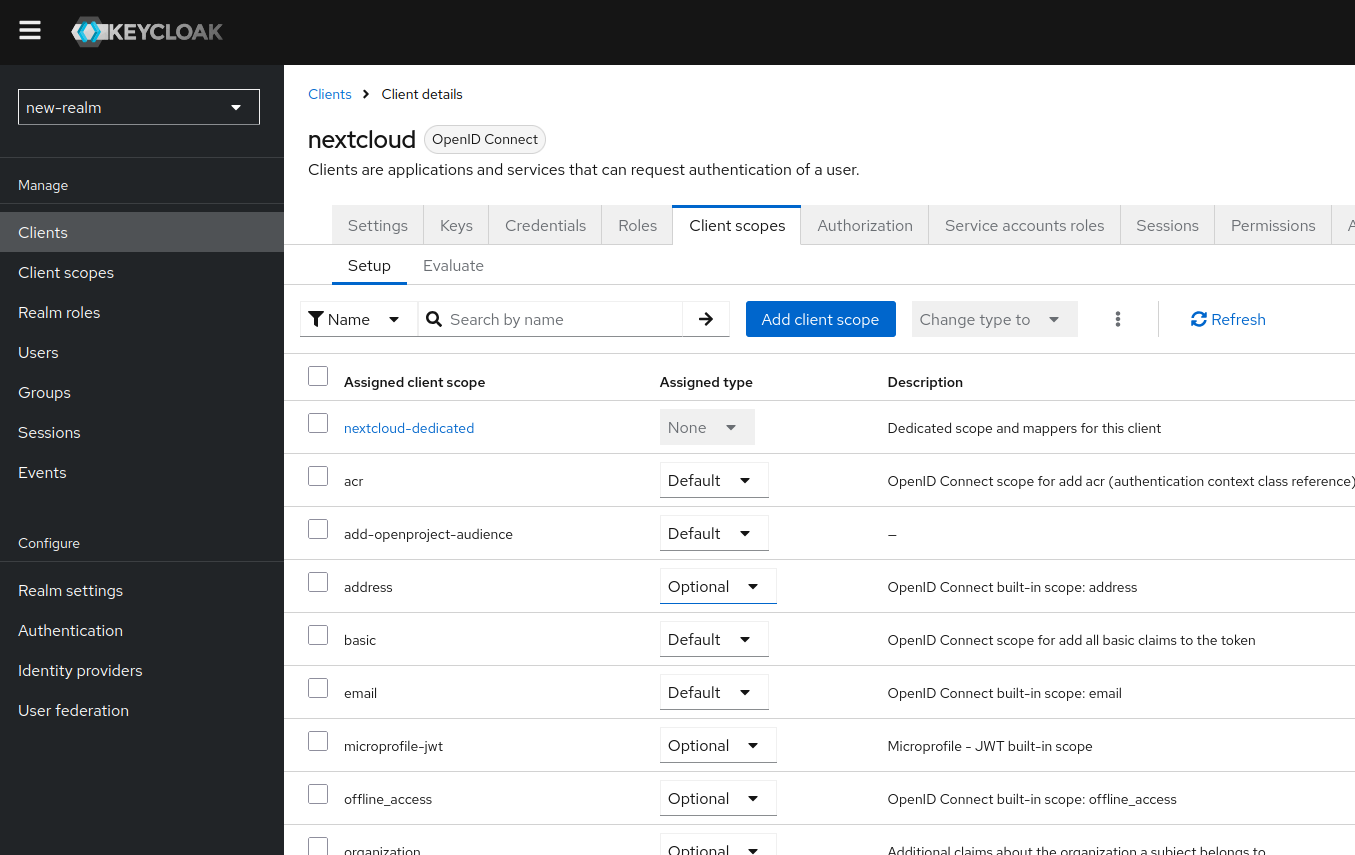
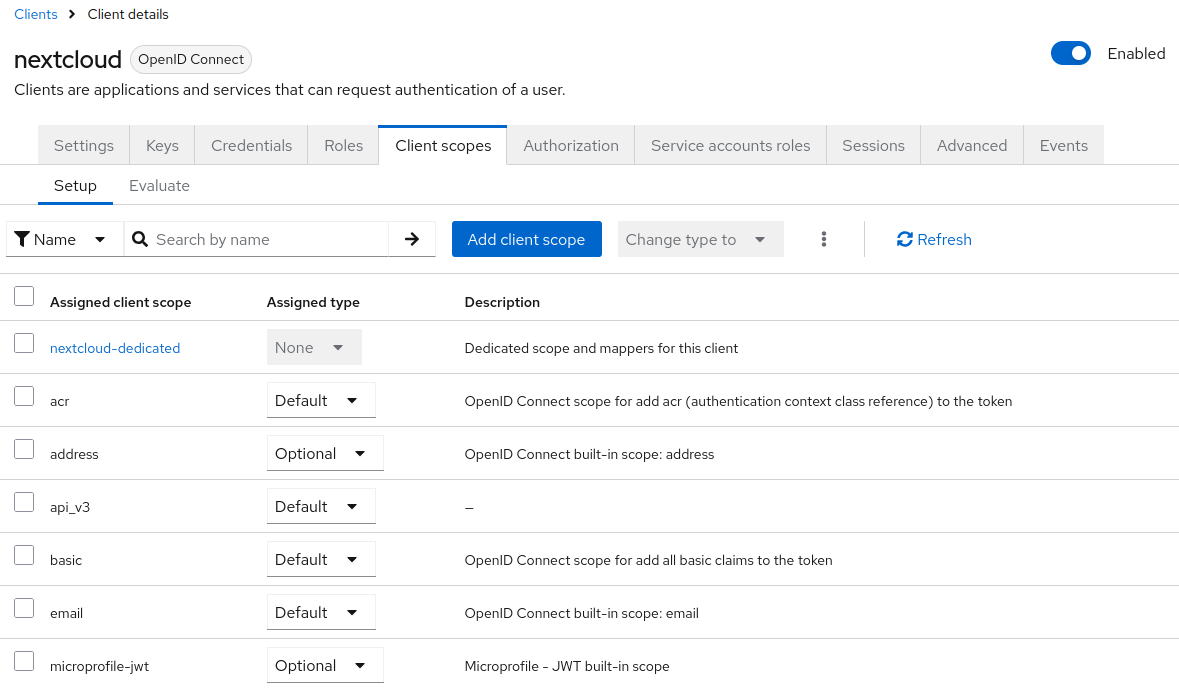
Update OIDC SSO docs for new Keycloak version
Setup changed compared to the preview version of the token exchange
feature. We reflect that. In general the instructions could be simplified.

diff --git a/docs/system-admin-guide/integrations/nextcloud/oidc-sso/README.md b/docs/system-admin-guide/integrations/nextcloud/oidc-sso/README.md
@@ -59,12 +59,10 @@ Other identity providers might work as well, but we have only limited capacity t
 
 ### Keycloak
 
-Keycloak can provide tokens via Token Exchange, as well as immediately after user sign-in. Using Token Exchange is preferred, but requires enabling two preview features in the Keycloak deployment:
+Keycloak can provide tokens via Token Exchange, as well as immediately after user sign-in. Using Token Exchange is preferred, because it works
+with tokens that grant more narrow access.
 
-* `token-exchange`
-* `admin-fine-grained-authz`
-
-If you prefer not to enable preview features on your production deployment, it's also possible to use wide-access tokens, i.e. configure the access token that is handed out after user sign-in to also grant access to other applications.
+Alternatively, it's also possible to use wide-access tokens, i.e. configure the access token that is handed out after user sign-in to also grant access to other applications.
 
 #### Common setup steps
 
@@ -73,51 +71,50 @@ to your OpenProject and Nextcloud instances via Keycloak, you should already hav
 this guide, we will assume that these clients exist with the client ID `openproject` and `nextcloud` respectively.
 
 To make requests to the API of OpenProject, a client needs to obtain a token with the scope `api_v3`. We need to configure this client scope
-in Keycloak, so that the Nextcloud client can obtain it.
+in Keycloak, so that the Nextcloud client can obtain it. We will also need an additional scope that extends the audience of the OpenProject
+token.
 
 First, navigate to "Client scopes", click the "Create client scope" button and name the scope `api_v3`. Make sure
-to enable the option "Include in token scope", then save the form.
+to enable the option "Include in token scope", then save the form. Create a second client scope with a name of your choice, for example
+`add-nextcloud-audience`. For this scope "Include in token scope" is not necessary, though it can be helpful for your own debugging.
 
-This makes the scope ready to use. How we use it depends on the way that tokens are handed out to clients.
+These scopes do not have any effect yet, we have to add a mapper first. Navigate to the "Mappers" tab of the `api_v3` scope, Click "Configure a new mapper" and select "Audience". Give the mapper a name of your choice and make sure to select `openproject` in "Included Client Audience". This will make sure that tokens with the `api_v3` scope, will get an additional audience of `openproject`:
+
+![A configured audience mapper for including openproject as audience in a token](keycloak_audience_mapper.png)
+
+Afterwards repeat the same steps for the `add-nextcloud-audience` scope, choosing the `nextcloud` audience there.
+
+This makes the scopes ready to use. How we use them depends on the way that tokens are handed out to clients.
 
 #### Keycloak using Token Exchange
 
 ##### Configuring Keycloak
 
-First, make sure that you enabled both required features in Keycloak: `token-exchange` and `admin-fine-grained-authz`. You can [follow the Keycloak documentation on how to do that](https://www.keycloak.org/server/features). Once they are enabled, you can confirm them from the "Server Info" tab in your Keycloak installation:
+We need to enable Token Exchange for both clients. Navigate to the `openproject` client, scroll down to "Capability config" and enable
+the Authentication flow "Standard Token Exchange". Do the same for the `nextcloud` client:
 
-![The Keycloak UI that shows enabled features](keycloak_features.png)
+![The capability config section of a client with Standard Token Exchange enabled](keycloak_capability_config.png)
 
-We will need to allow OpenProject to exchange tokens with `nextcloud` in the audience, as well as allowing Nextcloud to exchange tokens with `openproject` in the audience.
+The `nextcloud` client requires an additional configuration step, where we allow to directly exchange a refresh token, instead of just an access token.
+From the `nextcloud` client, go to the tab Advanced and scroll down to the section "OpenID Connect Compatibility Modes". Set
+the option "Allow refresh token in Standard Token Exchange" to "Same session":
 
-To do this, we first create policies that will be used to control which clients are allowed to exchange tokens for a specific audience. Go to the `realm-management` client (in the default realm this client is called `master-realm`) and switch to the "Authorization" tab and there to the "Policies" submenu. If the "Authorization" tab is not visible, it might be necessary to make it visible by going to "Permissions" first and enabling fine-grained permissions there. Assuming you didn't create any other policies yet, your view should look similar to this:
+!["Allow refresh token in Standard Token Exchange" is set to "Same session"](keycloak_exchange_refresh_token.png)
 
-![An empty list of policies](keycloak_empty_policies.png)
+We will need to allow OpenProject to exchange tokens with `nextcloud` in the audience, as well as allowing Nextcloud to exchange tokens with `openproject` in the audience. Additionally Nextcloud tokens need to include the `api_v3` scope so that they are usable for requests against OpenProject's API.
 
-Click the "Create client policy" button and select "Client" as the policy type. Other types would be possible as well (such as Client scope), but this guide will explain the setup based on a client policy. Name the policy `allowed-to-exchange-openproject-token` and add at least `nextcloud` to the list of clients, while making sure that the Logic is "Positive". Afterwards repeat the same steps, creating a policy called `allowed-to-exchange-nextcloud-token`, including `openproject` in the list of clients:
+Navigate to "Clients", choose `openproject` and then go to the Tab called "Client Scopes". Press the button to "Add client scope" and select the `add-nextcloud-audience` scope, make sure it is set to "Optional", so that the scope is only included when it was requested. Afterwards go to the `nextcloud` client and add the scope `api_v3` there the same way.
 
-![One of the two exchange policies configured above](keycloak_exchange_policy.png)
-
-We will later use these policies to control who is allowed to perform a token exchange that results in a token usable for requests to the given client. For example, if you have additional clients that need to obtain a token usable at OpenProject, you'd add those clients to the `allowed-to-exchange-openproject-token` client list. The names suggested here are proposals for readable policy names, but they have no practical impact.
-
-Next, we need to apply the policies, so that they actually allow the token exchange for given clients. Navigate to the `openproject` client, go to the Tab "Permissions", enable the "Permissions enabled" checkbox and select the permission with the name `token-exchange`. You should end up on a form similar to this one:
-
-![Empty view of the permission configuration dialog](keycloak_exchange_permission.png)
-
-In the field "Policies" you can now add the `allowed-to-exchange-openproject-token` we created earlier. This means that clients matching that policy will be allowed to exchange an access token that includes the `openproject` audience.
-
-Afterwards repeat the previous steps to add the `allowed-to-exchange-nextcloud-token` policy to the `nextcloud` client.
-
-Lastly, we need to allow Nextcloud to obtain the previously created `api_v3` scope when requesting a token. Navigate to "Clients", choose
-`nextcloud` and then go to the Tab called "Client Scopes". Press the button to "Add client scope" and select the `api_v3` scope, make sure
-it is set to "Optional", so that the scope is only included when it was requested. Afterwards to to the `openproject` client and add the
-scope there the same way. This is required so that exchanged tokens can carry the scope as well.
+Both clients are now able to request the given scopes during token exchange.
 
 ##### Configuring OpenProject
 
-In OpenProject it is enough to configure the ID of the Nextcloud client (in our example: `nextcloud`) as the "Storage Audience". This will make sure that OpenProject will attempt to exchange a token for that audience before making requests to Nextcloud:
+In OpenProject we need to configure the ID of the Nextcloud client (in our example: `nextcloud`) as the "Storage Audience".
+This will make sure that OpenProject will attempt to exchange a token for that audience before making requests to Nextcloud.
 
-![OpenProject is configured to manually exchange tokens for the audience called nextcloud](openproject_manual_storage_audience.png)
+We also need to request the previously created `add-nextcloud-audience` scope during Token Exchange. To do that configure the "Storage Scope" to `add-nextcloud-audience`:
+
+![OpenProject is configured to manually exchange tokens for the audience called nextcloud requesting a scope called add-nextcloud-audience](openproject_manual_storage_audience.png)
 
 ##### Configuring Nextcloud
 
@@ -128,27 +125,15 @@ After enabling the toggle called "enable token exchange", you have to set the cl
 
 Additionally we need to configure the OpenID Connect provider in Nextcloud. Navigate to "Administration", and choose "OpenID Connect" from the sidebar. You should see a list of your configured OpenID Connect providers. At the top of that page enable the checkbox called "Store login tokens". This setting is required by Nextcloud to allow using tokens obtained during login for token exchange or requests to other services.
 
-Afterwards navigate to the OpenID Connect provider of the Keycloak and edit it. Make sure that the `api_v3` claim is part of the "Scope" text box. If it hasn't been added so far, you can append it to the existing text, ensuring that it is preceded by a space, e.g., `openid email profile api_v3`. This ensures that Nextcloud will request the `api_v3` scope when a user logs in. Only then Keycloak will allow to exchange a token for OpenProject that carries the `api_v3` scope as well.
-
 This wraps up the configuration of this authentication method using Keycloak and token exchange. For details on the next step continue with the [general setup instructions](../#4-automatically-managed-project-folders).
 
 #### Keycloak using wide-access tokens
 
 ##### Configuring Keycloak
 
-We will add client scopes that result in the inclusion of an additional audience to the tokens returned during user authentication. This will cause OpenProject to receive tokens with an additional `nextcloud` audience and Nextcloud to receive tokens with an additional `openproject` audience.
+We will add the previously prepared client scopes that result in the inclusion of an additional audience to the tokens returned during user authentication. This will cause OpenProject to receive tokens with an additional `nextcloud` audience and Nextcloud to receive tokens with an additional `openproject` audience as well as the `api_v3` scope.
 
-First navigate to "Client scopes" and there press the button to "Create client scope" and give the scope a name of `add-openproject-audience`. After saving your view should look similar to this:
-
-![A newly saved client scope form](keycloak_new_client_scope.png)
-
-This scope does not have any effect yet, we have to add a mapper first. Navigate to the "Mappers" tab, Click "Configure a new mapper" and select "Audience". Give the mapper a name of your choice and make sure to select `openproject` in "Included Client Audience". This will make sure that clients that receive a token with this scope, will get an additional audience of `openproject`:
-
-![A configured audience mapper for including openproject as audience in a token](keycloak_audience_mapper.png)
-
-Afterwards make sure to create another scope called `add-nextcloud-audience` that will add the `nextcloud` audience to tokens that carry it.
-
-Finally we need to assign our newly created client scopes to our OpenProject and Nextcloud clients, so that the scopes take effect there. Navigate to the Nextcloud client, open the "Client Scopes" tab of the client and click "Add client scope". Then select the `add-openproject-audience` scope and add it as a "Default" scope:
+Navigate to the Nextcloud client, open the "Client Scopes" tab of the client and click "Add client scope". Then select the `api_v3` scope and add it as a "Default" scope:
 
 ![Nextcloud client with an additional scope added as default](keycloak_client_with_scope.png)
 
@@ -168,8 +153,6 @@ Make sure to leave the toggle "enable token exchange" disabled:
 ![Nextcloud configured to use the login token](nextcloud_using_login_token.png)
 
 Additionally, we need to configure the OpenID Connect provider in Nextcloud. Navigate to "Administration" and choose "OpenID Connect" from the sidebar. You should see a list of your configured OpenID Connect providers. At the top of that page enable the "Store login tokens" checkbox. This setting is required by Nextcloud to allow using tokens obtained during login for token exchange or requests to other services.
-
-Afterwards navigate to the OpenID Connect provider of the Keycloak and edit it. Make sure that the `api_v3` claim is part of the "Scope" text box. If it hasn't been added so far, you can append it to the existing text, ensuring that it is preceded by a space, e.g., `openid email profile api_v3`. This ensures that Nextcloud will request the `api_v3` scope when a user logs in. Only then will Keycloak allow to exchange a token for OpenProject that carries the `api_v3` scope as well.
 
 This wraps up the configuration of this authentication method using Keycloak without token exchange. For details on the next step continue with the [general setup instructions](../#4-automatically-managed-project-folders).
 
